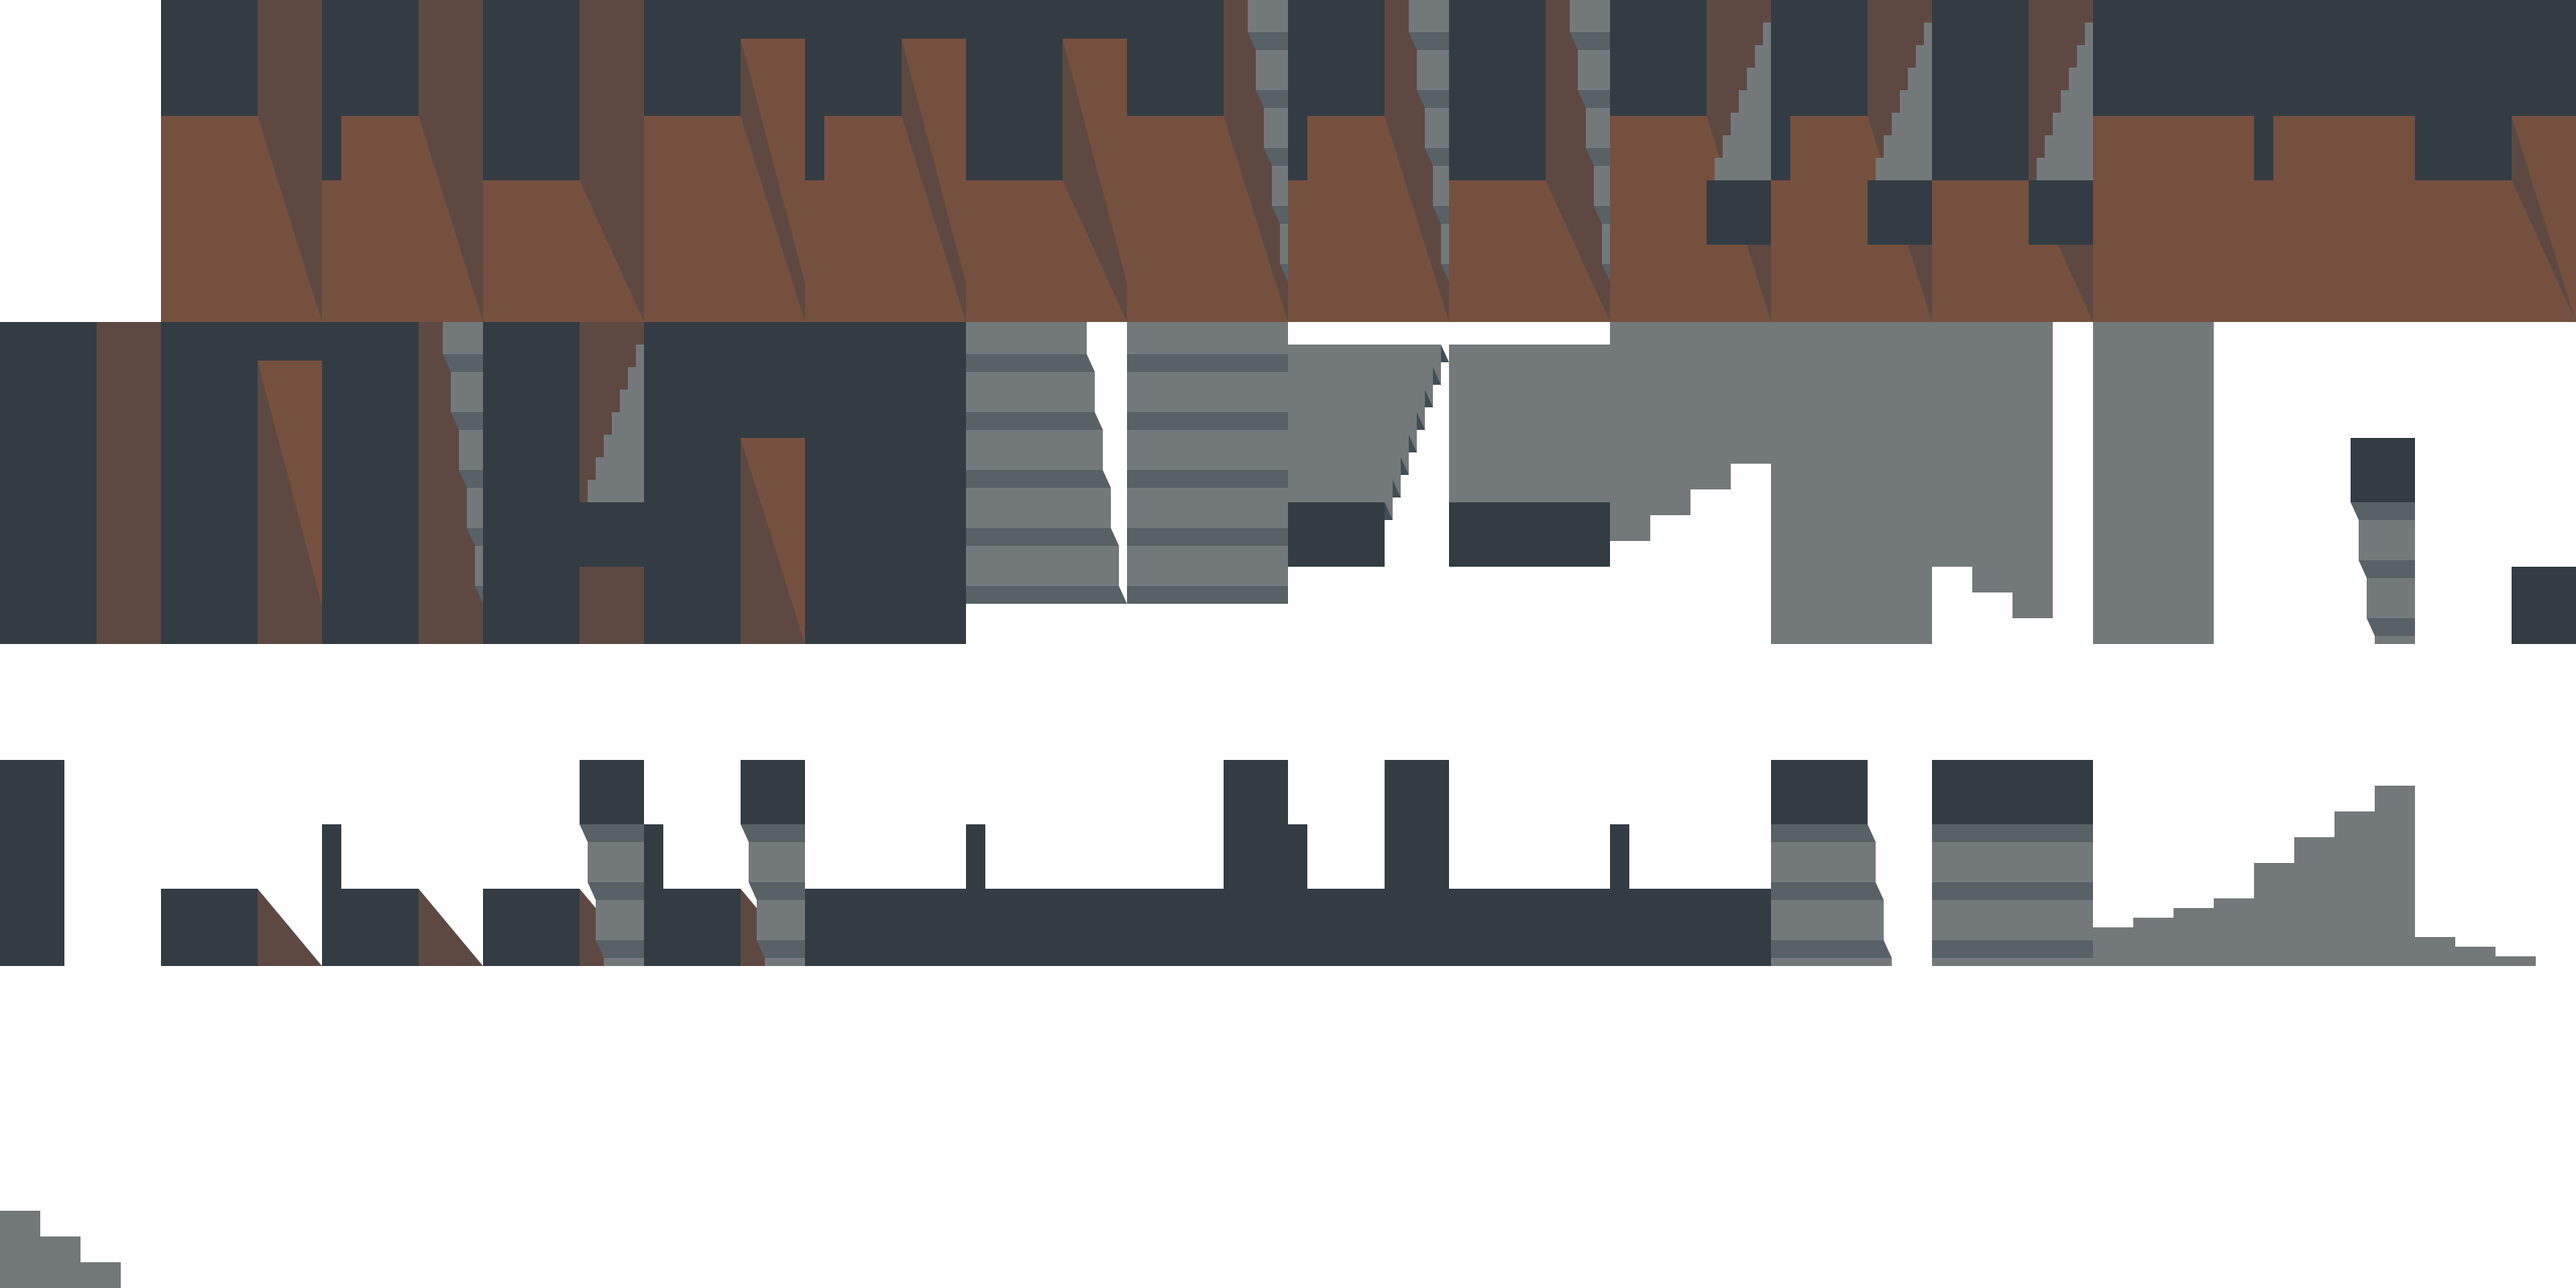
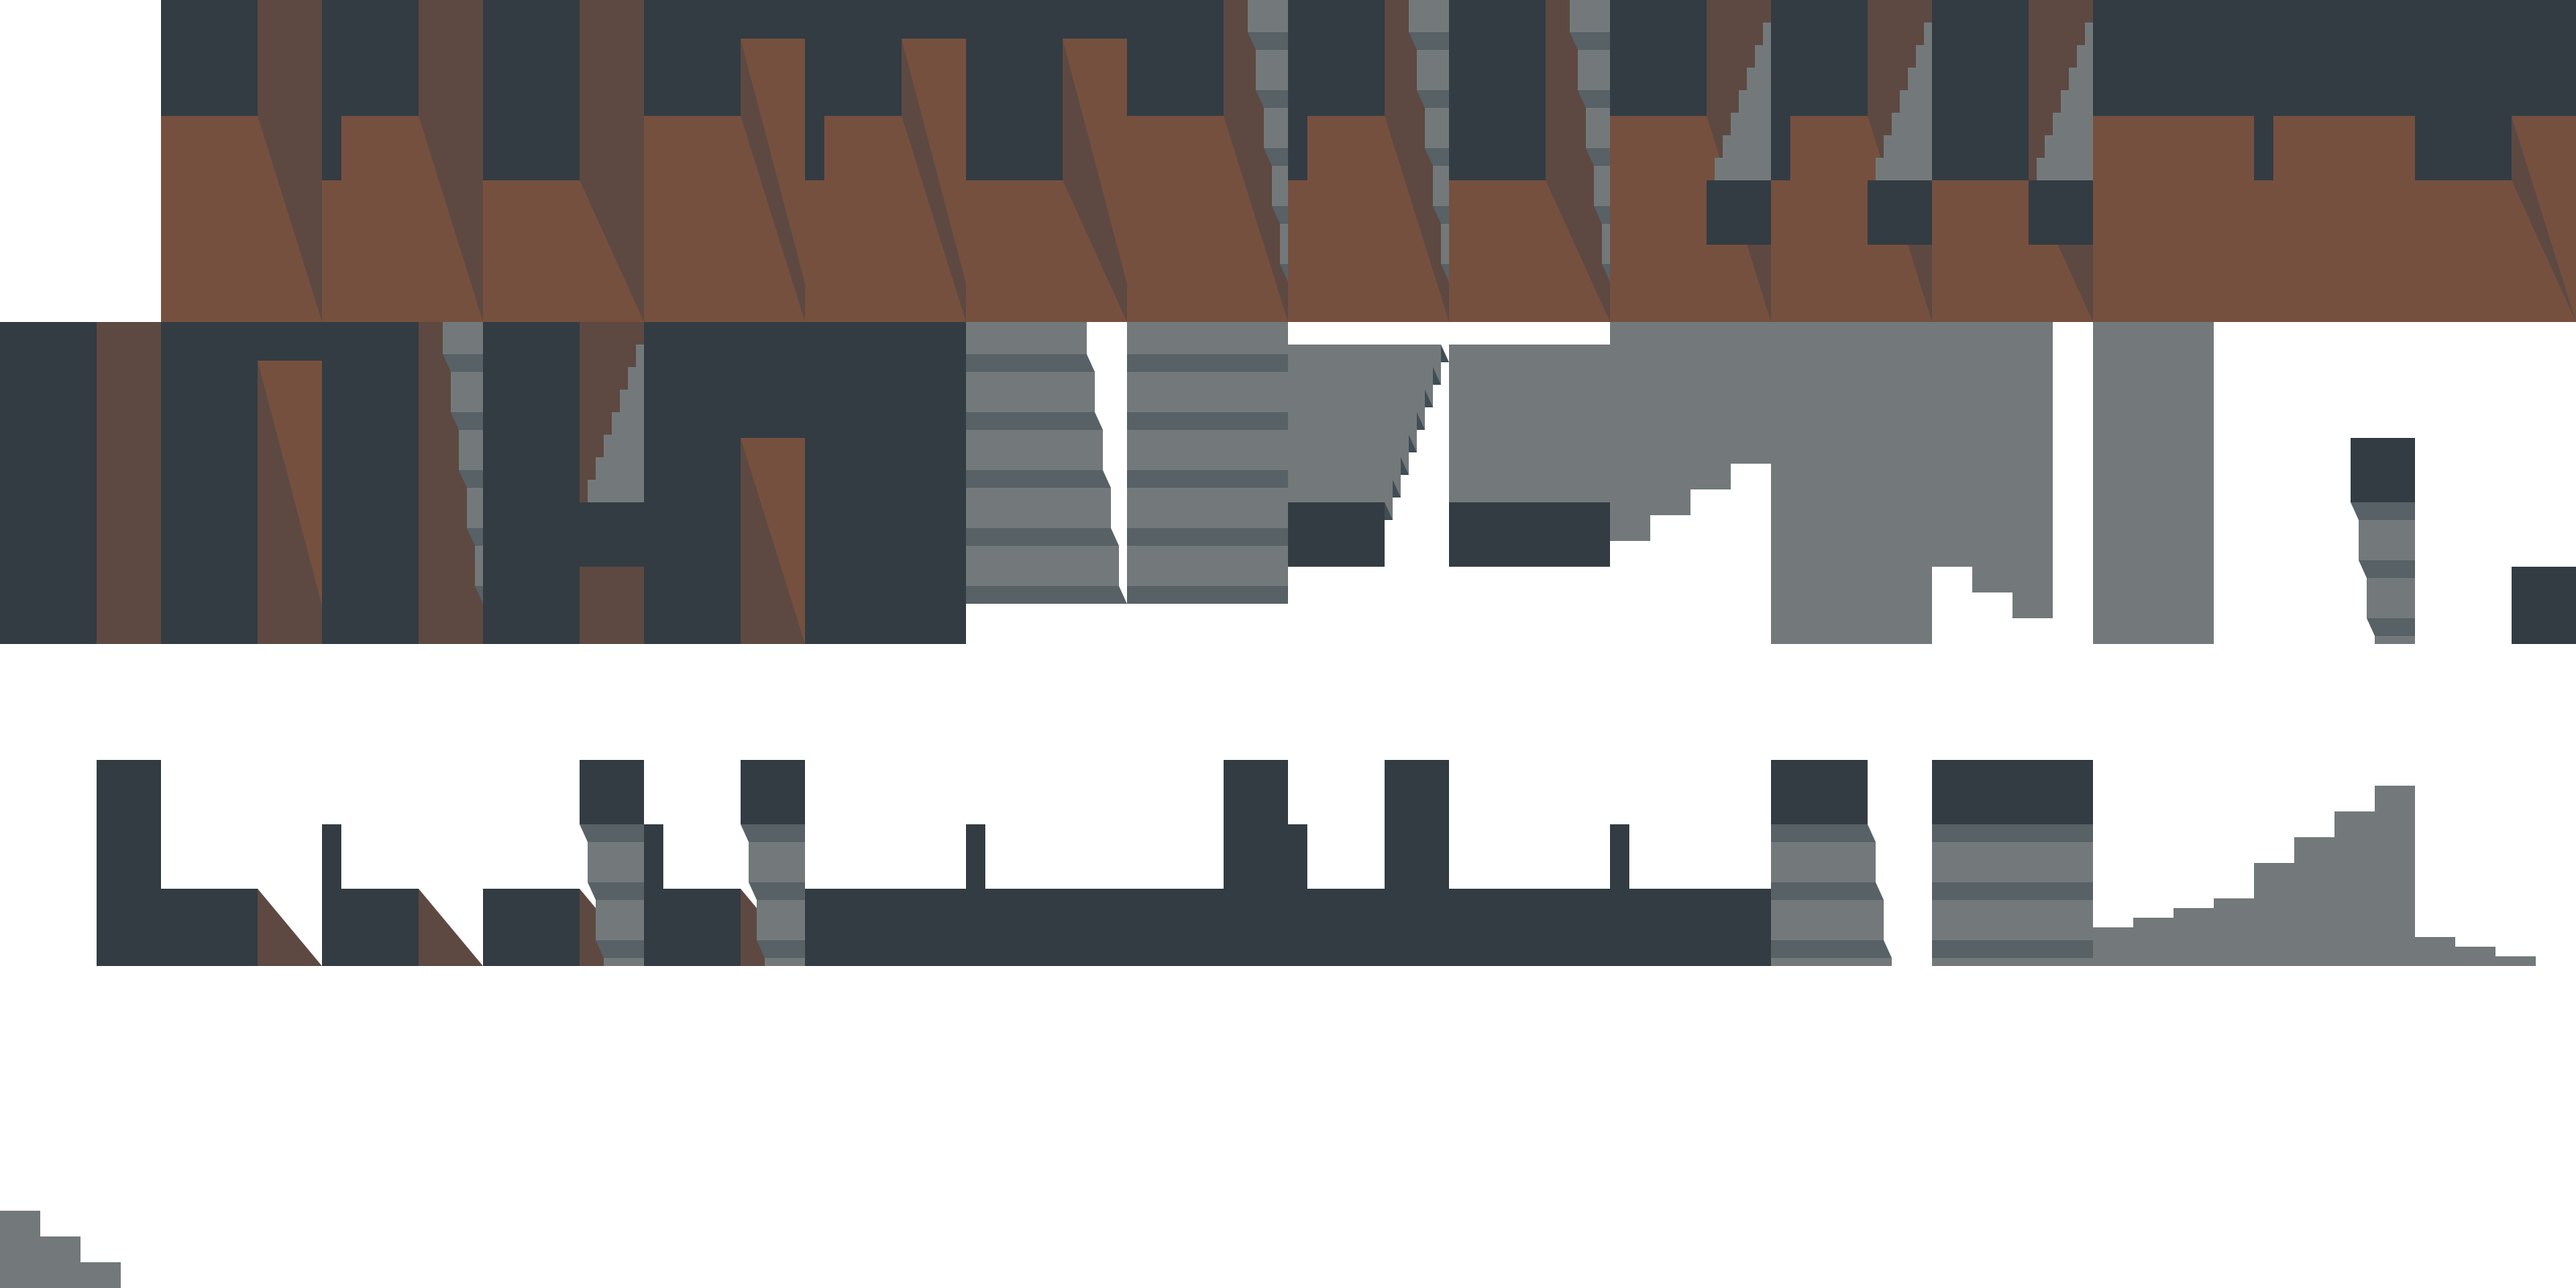
wip

Changed region(s): [[0.0, 0.5938, 0.0625, 0.75]]

diff --git a/wdn-enumerate/src/lib.rs b/wdn-enumerate/src/lib.rs
@@ -219,7 +219,11 @@ impl TopSprite {
         match south {
             TileVariant::Empty | TileVariant::DoorH | TileVariant::DoorV | TileVariant::StairS => {
                 TopSprite::Empty {
-                    south_east: SouthEastTopDecoration::None,
+                    south_east: SouthEastTopDecoration::from_open_tile(
+                        south_east,
+                        TileVariant::Empty,
+                        east,
+                    ),
                 }
             }
             TileVariant::StairN => match south_east {
@@ -230,11 +234,19 @@ impl TopSprite {
                 deco: TopDecoration::from_center(center),
             },
             TileVariant::Wall if center == TileVariant::Wall => TopSprite::Empty {
-                south_east: SouthEastTopDecoration::from_open_tile(south_east, east),
+                south_east: SouthEastTopDecoration::from_open_tile(
+                    south_east,
+                    TileVariant::Wall,
+                    east,
+                ),
             },
             TileVariant::Wall => TopSprite::Corner {
                 deco: TopDecoration::from_center(center),
-                south_east: SouthEastTopDecoration::from_open_tile(south_east, east),
+                south_east: SouthEastTopDecoration::from_open_tile(
+                    south_east,
+                    TileVariant::Wall,
+                    east,
+                ),
             },
             TileVariant::StairE => match center {
                 TileVariant::StairE | TileVariant::Wall => TopSprite::StairEFull,
@@ -260,9 +272,12 @@ impl TopDecoration {
 
 impl SouthEastTopDecoration {
     /// Maps a non-`Wall` south-east tile to the corner decoration drawn there.
-    fn from_open_tile(tile: TileVariant, north: TileVariant) -> Self {
+    fn from_open_tile(tile: TileVariant, west: TileVariant, north: TileVariant) -> Self {
         match tile {
-            TileVariant::StairN => SouthEastTopDecoration::StairN,
+            TileVariant::StairN => match west {
+                TileVariant::StairN | TileVariant::Wall => SouthEastTopDecoration::StairN,
+                _ => SouthEastTopDecoration::None,
+            },
             TileVariant::StairW => match north {
                 TileVariant::StairW | TileVariant::Wall => SouthEastTopDecoration::StairWFull,
                 _ => SouthEastTopDecoration::StairW,

diff --git a/wdn-enumerate/src/main.rs b/wdn-enumerate/src/main.rs
@@ -46,20 +46,20 @@ fn main() {
 
     println!("Unique tops: {}", tops.len());
     for (i, top) in tops.iter().enumerate() {
-        //     if matches!(
-        //         top,
-        //         TopSprite::Empty {
-        //             south_east: SouthEastTopDecoration::None
-        //         }
-        //     ) {
-        //         assert_eq!(top.id(), 0);
-        //     } else {
-        //         assert_eq!(
-        //             top.id(),
-        //             i as u16 + mids.len() as u16 - 1,
-        //             "top: {top:?}, i: {i}"
-        //         );
-        //     }
+        if matches!(
+            top,
+            TopSprite::Empty {
+                south_east: SouthEastTopDecoration::None
+            }
+        ) {
+            assert_eq!(top.id(), 0);
+        } else {
+            assert_eq!(
+                top.id(),
+                i as u16 + mids.len() as u16 - 1,
+                "top: {top:?}, i: {i}"
+            );
+        }
 
         println!("  {top:?} => {},", i + mids.len() - 1);
     }

diff --git a/wdn-render/src/tile/wall.rs b/wdn-render/src/tile/wall.rs
@@ -16,8 +16,8 @@ pub fn mid_offsets(storage: &TileStorage, tile: TilePosition) -> (u16, u16) {
     );
     let right = MidSprite::resolve(
         get_tile_variant(storage, tile),
-        get_tile_variant(storage, tile.north().east()),
         get_tile_variant(storage, tile.north()),
+        get_tile_variant(storage, tile.north().east()),
         get_tile_variant(storage, tile.east()),
         get_tile_variant(storage, tile.south().east()),
         get_tile_variant(storage, tile.south()),
@@ -37,8 +37,8 @@ pub fn top_offset(storage: &TileStorage, tile: TilePosition) -> (u16, u16) {
     );
     let right = TopSprite::resolve(
         get_tile_variant(storage, tile),
-        get_tile_variant(storage, tile.north().east()),
         get_tile_variant(storage, tile.north()),
+        get_tile_variant(storage, tile.north().east()),
         get_tile_variant(storage, tile.east()),
         get_tile_variant(storage, tile.south().east()),
         get_tile_variant(storage, tile.south()),
